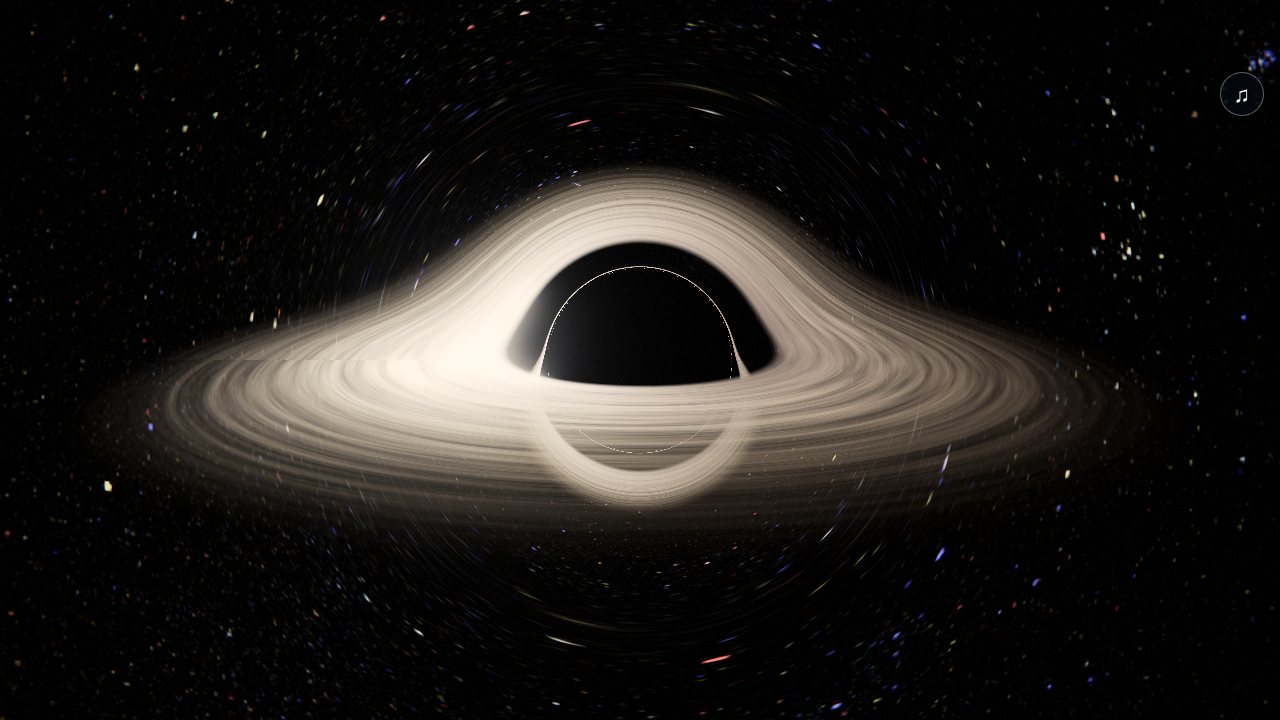
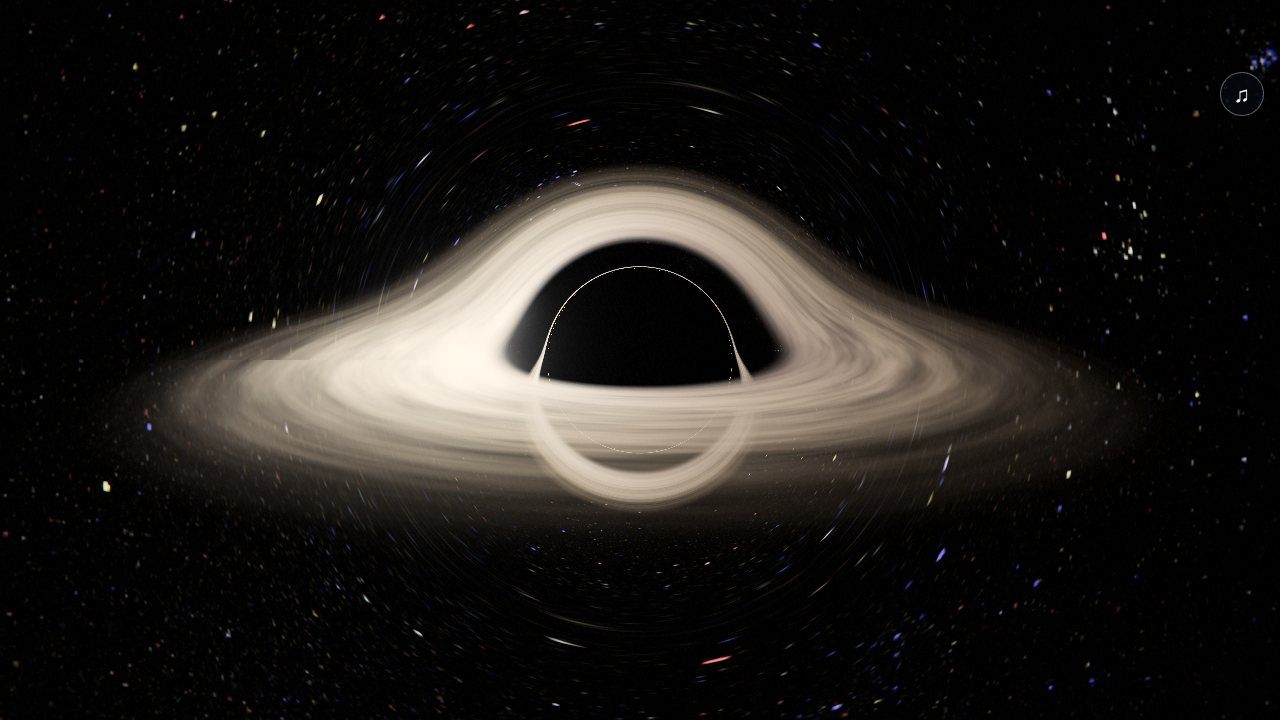
測試預覽 preview/：整合候選 claude/integration-test e231c72（PR #47 arc 標準字 + PR #48 觀感 + PR #50 手機頂列）；根目錄正式站不變
Claude-Session: https://claude.ai/code/session_01RqxHukPcxppRBenMchJU5H

diff --git a/preview/js/shaders.js b/preview/js/shaders.js
@@ -482,7 +482,6 @@ export const BH_FRAG = /* glsl */`
     float sinA = dot(rd, ephi);          // 橫向分量
     // 對於以 φ 為參數的軌道，r dφ/ds = sinA, dr/ds = cosA → dr/dφ = r cosA / sinA → u' = -cosA/(r sinA) * ...
     float du = -cosA / max(sinA, 1e-4) * u;
-    float phi = 0.0;
     vec3 col = vec3(0.0); float trans = 1.0;
     vec3 prevP = ro;
     bool captured = false;
@@ -491,11 +490,13 @@ export const BH_FRAG = /* glsl */`
     // 之前用「最後兩點差」且固定 0.05 的 φ 偏移，與實際步長不一致，遠處星點被沿徑向拉成細線（GPT 審查 PR #48 提到的拉絲）。
     vec3 lastDir = rd;
     bool escaped = false;
+    // cos φ／sin φ 用旋轉遞推（每步 φ += h，h ≤ 0.07 用小角近似，再正規化），不每步呼叫三角函數；逃逸方向只在迴圈外正規化一次
+    float cphi = 1.0, sphi = 0.0;
     for (int i = 0; i < 1200; i++) {
       if (i >= STEPS) break;
       // 步長：遠處大步、近處小步；光子球（u≈2/3）附近的軌道不穩定，再縮到 0.6 倍，否則相鄰像素的光線命中／錯過盤面交替出現，
       // 光子環在螢幕上變成點狀斷線（GPT 第四輪）。
-      float h = clamp(0.04 / max(u * 1.5, 0.25), 0.008, 0.07) * mix(0.6, 1.0, smoothstep(0.08, 0.3, abs(u - 0.6667)));
+      float h = clamp(0.06 / max(u * 1.5, 0.25), 0.01, 0.1) * mix(0.6, 1.0, smoothstep(0.08, 0.3, abs(u - 0.6667)));   // RK4 容許比 RK2 大 1.5 倍的步長（遠處 0.1、光子球附近 0.036 rad），步數少三分之一
       // RK4 積分 u'' = -u + 1.5 u²（右式極便宜，RK4 比 RK2 多的兩次求值幾乎免費，但在不穩定軌道附近誤差小得多）
       float k1u = du,                 k1du = -u + 1.5 * u * u;
       float u2 = u + 0.5 * h * k1u,   d2 = du + 0.5 * h * k1du;
@@ -504,12 +505,13 @@ export const BH_FRAG = /* glsl */`
       float k3u = d3,                 k3du = -u3 + 1.5 * u3 * u3;
       float u4 = u + h * k3u,         d4 = du + h * k3du;
       float k4u = d4,                 k4du = -u4 + 1.5 * u4 * u4;
-      u += h * (k1u + 2.0 * k2u + 2.0 * k3u + k4u) / 6.0; du += h * (k1du + 2.0 * k2du + 2.0 * k3du + k4du) / 6.0; phi += h;
+      u += h * (k1u + 2.0 * k2u + 2.0 * k3u + k4u) / 6.0; du += h * (k1du + 2.0 * k2du + 2.0 * k3du + k4du) / 6.0;
+      { float ch = 1.0 - 0.5 * h * h, sh = h * (1.0 - h * h / 6.0); float c2 = cphi * ch - sphi * sh, s2 = sphi * ch + cphi * sh; float nrm = inversesqrt(c2 * c2 + s2 * s2); cphi = c2 * nrm; sphi = s2 * nrm; }
       if (u > 1.0) { captured = true; break; }         // 掉入事件視界
       if (u <= 1e-6) { escaped = true; break; }         // 到達無窮遠：方向取上一步的切線
       float r = 1.0 / u;
-      vec3 radial = er * cos(phi) + ephi * sin(phi), tang = -er * sin(phi) + ephi * cos(phi);
-      lastDir = safeNormalize((-du / (u * u)) * radial + r * tang);
+      vec3 radial = er * cphi + ephi * sphi, tang = -er * sphi + ephi * cphi;
+      lastDir = (-du / (u * u)) * radial + r * tang;    // 軌道切線（未正規化）
       vec3 p = radial * r;
       // 吸積盤：穿越盤面（法線方向符號改變）
       if (uDiskOn > 0.5) {
@@ -528,7 +530,7 @@ export const BH_FRAG = /* glsl */`
     }
     // 步數用完仍未逃逸也未被捕獲 = 卡在光子球附近繞圈的光線；之前直接拿當下切線取樣星空，
     // 在陰影邊緣形成一圈隨機星點（「細亮白、點狀斷線」）。這些光線實際上近乎一半落入視界，改視為被捕獲（只保留已累積的盤面光）。
-    if (!captured && escaped && trans > 0.02) col += skyColor(lastDir) * trans; // 逃逸方向：軌道切線（見上）
+    if (!captured && escaped && trans > 0.02) col += skyColor(safeNormalize(lastDir)) * trans; // 逃逸方向：軌道切線（見上）
     gl_FragColor = vec4(safeColor(col), 1.0);
   }
 `;

diff --git a/preview/TESTING.md b/preview/TESTING.md
@@ -333,7 +333,9 @@ node tools/browser_test.mjs http://127.0.0.1:8123/ test-output --mobile --landsc
   - 時間凍結在 0 秒仍有細環、凍結在 300 秒更密 → 細環有兩個來源。(1) 盤面雜訊的徑向頻率 r×14／r×36（週期 0.03 rs，桌面約 1 px、手機不到 1 px）低於取樣極限，本身就是摩爾紋；(2) 克卜勒差速旋轉（ω ∝ r^-1.5）無限累積，相鄰半徑相位差隨時間線性增大，幾十秒後把紋理纏成等距細環（徑向週期 ∝ 1/t）。
   - 關掉吸積盤後陰影內的細白弧消失 → 它是盤面光，不是星空：掠過光子球（r = 1.5 rs）的光線繞行後打到盤內緣（3 rs）的高階像，物理上存在（EHT／《星際效應》的光子環），但 RK2、步長 0.04 rad 在不穩定軌道附近誤差大，相鄰像素命中／錯過交替，畫成點狀斷線；步數用完又未逃逸的光線則直接拿切線取樣星空，在弧上留下隨機星點。
   - 修正（`BH_FRAG`）：雜訊徑向頻率降到 r×1.6／4／9（最細週期 0.11 rs）；差速旋轉改 flow-map 交叉淡入（兩層各以 12 秒重置相位、三角權重交替，剪切量有上限，不再纏繞）；積分改 RK4（右式極便宜，多兩次求值幾乎免費）、光子球附近步長 ×0.6；步數用完仍未逃逸者視為被捕獲（只保留已累積的盤面光，不取樣星空）。Bloom 參數未動，不是用模糊遮掩。
-  - 效能：步數上限（380／600／900）不變；RK4 每步多兩次 `-u + 1.5u²`，光子球附近步數約 1.6 倍，但只影響陰影邊緣一圈像素。軟體繪圖（SwiftShader）的每幀時間與真機 GPU 無關，不列為效能證據；JS heap 26–30 MB（Chromium `performance.memory`）；真機 FPS／熱降頻／記憶體未測。
+  - 效能（`bhfps.mjs`：640×360 中畫質、黑洞視角、速度 0，SwiftShader 數 rAF 幀，**固定 300 步**以排除自適應步數）：修正前 3bb8430 每幀 635 ms；第一版修正（RK4＋光子球步長 ×0.6）889 ms（+40%）；最終版把基準步長放大 1.5 倍（遠處 0.1 rad、光子球附近 0.036 rad，RK4 在這個步長的誤差仍遠小於 RK2 在 0.04）並把每步的 cos／sin 改成旋轉遞推、逃逸方向只在迴圈外正規化一次 → 645 ms（與修正前持平，+1.6%）。畫面與第一版相同（連續光子環、無細環）。
+  - 注意主迴圈的 `uSteps` 是自適應的（`main.js`：幀時間 > 50 ms 每幀 ×0.85、下限 120；< 22 ms 緩慢回升到畫質上限），所以真機上較貴的著色器表現為「平衡步數較低」而不是掉幀；步數太低時最先消失的是光子環（繞行光線步數不足 → 視為捕獲 → 黑）。SwiftShader 的絕對每幀時間與真機 GPU 無關，只用於相對比較；JS heap 26–30 MB（Chromium `performance.memory`）；真機 FPS／熱降頻／記憶體未測。
+  - `tools/nan_sweep.mjs` 在 SwiftShader 下約 12 分鐘（含黑洞場景），回歸腳本的單項逾時需 ≥ 900 秒。
   - 修正後（`docs/screens/bh-after-grid.jpg`＝現況／凍結 300 秒／關盤面／低畫質／高畫質；`bh-after-1x.jpg`／`bh-after-2x.jpg`／`bh-after-m2x.jpg`＝中畫質 1280×720 1×、2×、390×844 2× 的中央裁切）：吸積盤只剩大尺度絲狀亮暗，時間凍結 300 秒也不再出現等距細環；陰影內的光子環（盤內緣高階像）在 2× 下為連續細線、1× 下兩端仍有少量鋸齒；低畫質（380 步）因步數不足而看不到光子環（視為被捕獲 → 黑），中／高畫質可見。光子環亮度隨盤面紋理轉動而變，是盤面光的正常變化。
 - **已知限制／交 GPT**：木星／土星 720 px 貼圖近看仍模糊；光子環本身是 1 px 細線（高階像被壓縮，物理如此），低 DPR 下仍可見鋸齒，真機 DPR 3 會比軟體繪圖 1× 細緻；雲層無厚度與自陰影；眩光造型、整體調色方向由 GPT 定稿。真機未測。
 
